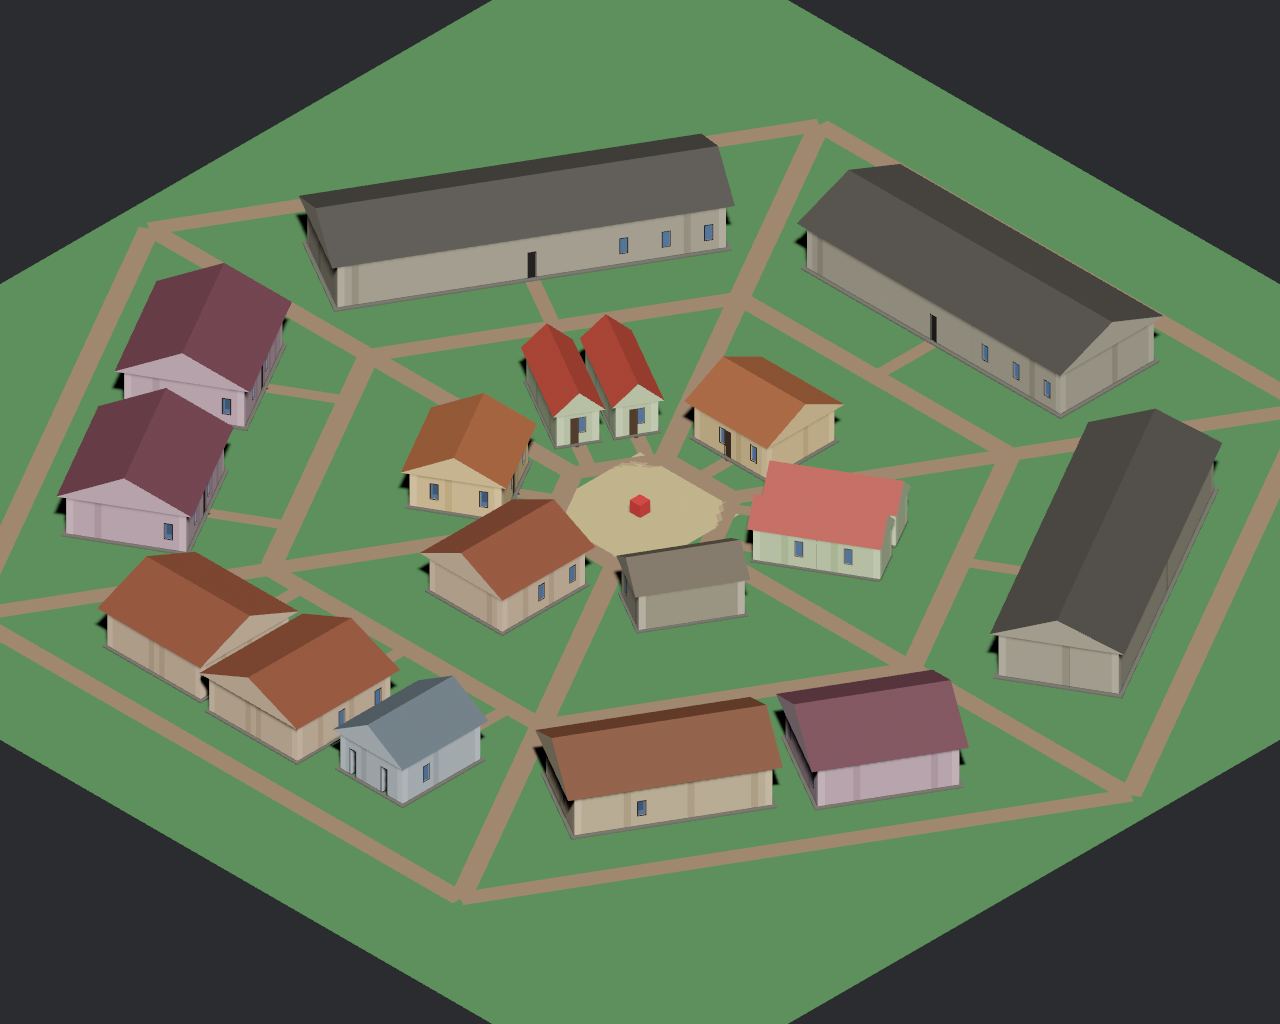
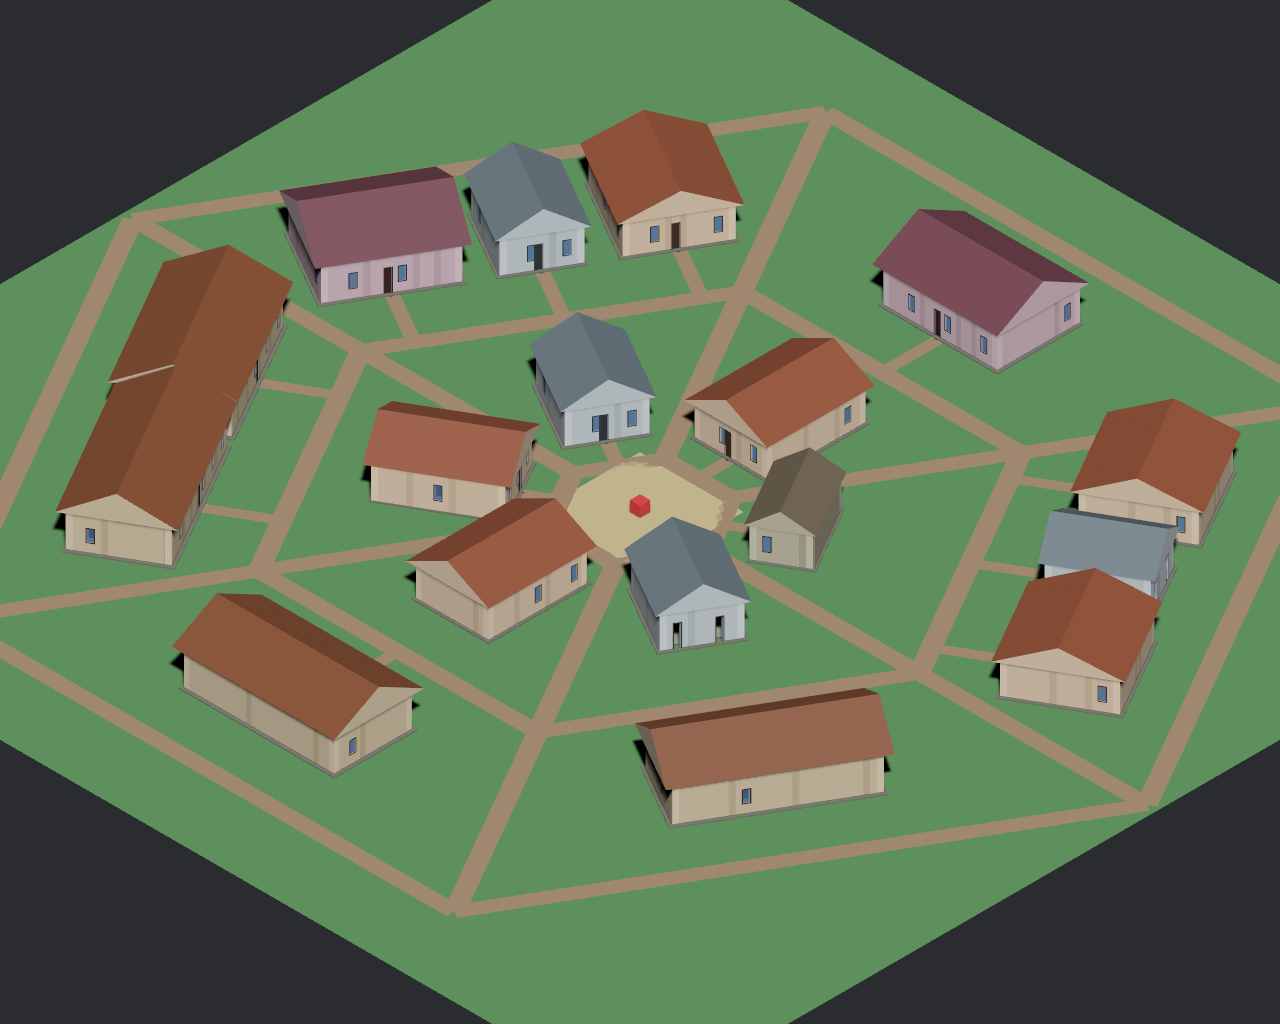
feat: Enhance district configuration and rendering with new visual styles and camera settings

diff --git a/apps/game-headless/src/main.rs b/apps/game-headless/src/main.rs
@@ -16,7 +16,7 @@ use game_core::plugins::building::render::spawn_building_layout;
 use game_core::plugins::scene::camera_config::CameraConfig;
 use game_core::plugins::scene::scene_config::SceneConfig;
 use game_core::plugins::GamePlugin;
-use std::time::{Duration, SystemTime, UNIX_EPOCH};
+use std::time::Duration;
 
 fn main() {
     let args: Vec<String> = std::env::args().collect();
@@ -115,35 +115,17 @@ fn generate_building(
     mut materials: ResMut<Assets<StandardMaterial>>,
     fixture: Res<HeadlessFixture>,
 ) {
-    // District fixtures: normal building preview and lot-placement debug preview.
-    if fixture.0 == "district" || fixture.0 == "district-lots" {
-        commands.insert_resource(CameraConfig {
-            position: Vec3::new(42.0, 42.0, 42.0),
-            target: Vec3::new(0.0, 0.0, 0.0),
-            viewport_height: 70.0,
-        });
+    if is_district_fixture(&fixture.0) {
+        commands.insert_resource(district_camera_for_fixture(&fixture.0));
         commands.insert_resource(SceneConfig {
-            ground_size: 100.0,
+            ground_size: district_ground_size_for_fixture(&fixture.0),
             ..Default::default()
         });
 
-        let seed = fixture_seed();
-        let district_config = TradeDistrictConfig {
-            seed,
-            ring_spacing: random_range(seed, 0, 20.0, 24.0),
-            lot_gap: random_range(seed, 1, 0.4, 0.7),
-            lot_width: 1.0,
-            lot_height: random_range(seed, 2, 0.38, 0.5),
-            lot_depth: random_range(seed, 3, 0.05, 0.15),
-            lot_width_randomness: 0.0,
-            lot_height_randomness: random_range(seed, 4, 0.05, 0.15),
-            lot_depth_randomness: random_range(seed, 5, 0.02, 0.08),
-            building_lot_inset: random_range(seed, 6, 0.05, 0.15),
-            ..Default::default()
-        };
+        let district_config = district_config_for_fixture(&fixture.0);
         let district = generate_district(&district_config);
         let mut entity_count = 0;
-        let show_lots = fixture.0 == "district-lots";
+        let show_lots = is_district_lots_fixture(&fixture.0);
 
         // Town square
         let sq = district_config.town_square_radius;
@@ -371,7 +353,6 @@ fn generate_building(
             Mesh3d(meshes.add(convert_mesh(&bmesh.wall_mesh))),
             MeshMaterial3d(materials.add(StandardMaterial {
                 base_color: Color::srgb(0.8, 0.8, 0.8),
-                cull_mode: None,
                 ..default()
             })),
             Transform::default(),
@@ -383,8 +364,12 @@ fn generate_building(
         commands.spawn((
             Mesh3d(meshes.add(convert_mesh(&bmesh.wall_top_mesh))),
             MeshMaterial3d(materials.add(StandardMaterial {
-                base_color: Color::srgb(0.18, 0.18, 0.18),
-                cull_mode: None,
+                base_color: Color::srgb(
+                    config.visual_style.wall_top_color[0],
+                    config.visual_style.wall_top_color[1],
+                    config.visual_style.wall_top_color[2],
+                ),
+                unlit: true,
                 ..default()
             })),
             Transform::default(),
@@ -397,7 +382,6 @@ fn generate_building(
             Mesh3d(meshes.add(convert_mesh(&bmesh.exterior_wall_mesh))),
             MeshMaterial3d(materials.add(StandardMaterial {
                 base_color: Color::srgb(0.92, 0.88, 0.68),
-                cull_mode: None,
                 ..default()
             })),
             Transform::default(),
@@ -410,7 +394,6 @@ fn generate_building(
             Mesh3d(meshes.add(convert_mesh(&bmesh.exterior_corner_mesh))),
             MeshMaterial3d(materials.add(StandardMaterial {
                 base_color: Color::srgb(0.96, 0.9, 0.62),
-                cull_mode: None,
                 ..default()
             })),
             Transform::default(),
@@ -423,7 +406,6 @@ fn generate_building(
             Mesh3d(meshes.add(convert_mesh(&bmesh.exterior_t_junction_mesh))),
             MeshMaterial3d(materials.add(StandardMaterial {
                 base_color: Color::srgb(0.86, 0.78, 0.48),
-                cull_mode: None,
                 ..default()
             })),
             Transform::default(),
@@ -667,23 +649,112 @@ fn local_to_world(origin: Vec2, rotation: f32, local: Vec2) -> Vec2 {
     )
 }
 
-fn fixture_seed() -> u64 {
-    SystemTime::now()
-        .duration_since(UNIX_EPOCH)
-        .map(|duration| duration.as_nanos() as u64)
-        .unwrap_or(42)
+fn is_district_fixture(fixture: &str) -> bool {
+    matches!(
+        fixture,
+        "district"
+            | "district-lots"
+            | "district-no-roof"
+            | "huge-trade-district"
+            | "huge-trade-district-lots"
+            | "huge-trade-district-no-roof"
+    )
 }
 
-fn random_range(seed: u64, stream: u64, min: f32, max: f32) -> f32 {
-    let mut value = seed ^ stream.wrapping_mul(0x9E37_79B9_7F4A_7C15);
-    value ^= value >> 30;
-    value = value.wrapping_mul(0xBF58_476D_1CE4_E5B9);
-    value ^= value >> 27;
-    value = value.wrapping_mul(0x94D0_49BB_1331_11EB);
-    value ^= value >> 31;
+fn is_district_lots_fixture(fixture: &str) -> bool {
+    matches!(fixture, "district-lots" | "huge-trade-district-lots")
+}
 
-    let unit = ((value >> 40) as f32) / ((1_u64 << 24) as f32);
-    min + (max - min) * unit
+fn district_camera_for_fixture(fixture: &str) -> CameraConfig {
+    if fixture.starts_with("huge-trade-district") {
+        CameraConfig {
+            position: Vec3::new(86.0, 86.0, 86.0),
+            target: Vec3::new(0.0, 0.0, 0.0),
+            viewport_height: 145.0,
+        }
+    } else {
+        CameraConfig {
+            position: Vec3::new(42.0, 42.0, 42.0),
+            target: Vec3::new(0.0, 0.0, 0.0),
+            viewport_height: 70.0,
+        }
+    }
+}
+
+fn district_ground_size_for_fixture(fixture: &str) -> f32 {
+    if fixture.starts_with("huge-trade-district") {
+        210.0
+    } else {
+        100.0
+    }
+}
+
+fn district_config_for_fixture(fixture: &str) -> TradeDistrictConfig {
+    if fixture.starts_with("huge-trade-district") {
+        let mut config = TradeDistrictConfig {
+            seed: 42,
+            ring_count: 4,
+            ring_spacing: 20.0,
+            lot_count: 36,
+            radial_count: 6,
+            lot_width: 1.0,
+            lot_height: 0.42,
+            lot_depth: 0.08,
+            lot_width_randomness: 0.0,
+            lot_height_randomness: 0.14,
+            lot_depth_randomness: 0.05,
+            building_lot_inset: 0.08,
+            max_buildings_per_lot: 3,
+            building_gap: 0.9,
+            preserve_large_lot_area: 300.0,
+            landmark_lot_chance: 0.36,
+            standalone_lot_width_scale: 0.5,
+            standalone_lot_depth_scale: 0.7,
+            building_lot_split_chance: 0.9,
+            one_building_lot_weight: 0.22,
+            two_building_lot_weight: 0.43,
+            three_building_lot_weight: 0.35,
+            building_lot_split_jitter: 0.32,
+            ..Default::default()
+        };
+        if fixture == "huge-trade-district-no-roof" {
+            for desc in &mut config.building_descriptions {
+                desc.render_roof = false;
+            }
+        }
+        config
+    } else {
+        let mut config = TradeDistrictConfig {
+            seed: 42,
+            ring_spacing: 22.0,
+            lot_gap: 0.55,
+            lot_width: 1.0,
+            lot_height: 0.46,
+            lot_depth: 0.08,
+            lot_width_randomness: 0.0,
+            lot_height_randomness: 0.12,
+            lot_depth_randomness: 0.05,
+            building_lot_inset: 0.08,
+            max_buildings_per_lot: 3,
+            building_gap: 0.9,
+            preserve_large_lot_area: 260.0,
+            landmark_lot_chance: 0.42,
+            standalone_lot_width_scale: 0.52,
+            standalone_lot_depth_scale: 0.72,
+            building_lot_split_chance: 0.86,
+            one_building_lot_weight: 0.24,
+            two_building_lot_weight: 0.43,
+            three_building_lot_weight: 0.33,
+            building_lot_split_jitter: 0.32,
+            ..Default::default()
+        };
+        if fixture == "district-no-roof" {
+            for desc in &mut config.building_descriptions {
+                desc.render_roof = false;
+            }
+        }
+        config
+    }
 }
 
 fn spawn_entrance_approach(

diff --git a/crates/building-gen/src/mesh/wall.rs b/crates/building-gen/src/mesh/wall.rs
@@ -454,20 +454,20 @@ fn append_wall_face(
             let n = [0.0, 0.0, 1.0];
             (
                 n,
-                [min_x, max_y, max_z],
                 [max_x, max_y, max_z],
-                [min_x, min_y, max_z],
+                [min_x, max_y, max_z],
                 [max_x, min_y, max_z],
+                [min_x, min_y, max_z],
             )
         }
         WallFaceDir::NegZ => {
             let n = [0.0, 0.0, -1.0];
             (
                 n,
-                [max_x, max_y, min_z],
                 [min_x, max_y, min_z],
-                [max_x, min_y, min_z],
+                [max_x, max_y, min_z],
                 [min_x, min_y, min_z],
+                [max_x, min_y, min_z],
             )
         }
         WallFaceDir::PosY => {
@@ -675,5 +675,61 @@ mod tests {
         let (min, max) = wall_bounds_for_tile(&grid, 0, 0, wall, &config);
         assert_eq!(max[0] - min[0], config.tile_size);
         assert_eq!(max[2] - min[2], config.tile_size);
+    }
+
+    #[test]
+    fn test_wall_triangle_winding_matches_normals() {
+        let config = BuildingConfig {
+            footprint: Rect::new(0.0, 0.0, 3.0, 3.0),
+            tile_size: 1.0,
+            wall_thickness: 0.25,
+            ..Default::default()
+        };
+
+        for shape in [
+            WallShape::Straight(CardinalDir::Left),
+            WallShape::Straight(CardinalDir::Right),
+            WallShape::Straight(CardinalDir::Bottom),
+            WallShape::Straight(CardinalDir::Top),
+        ] {
+            let mut grid = TileGrid::new(3, 3, config.tile_size, Vec2::ZERO);
+            grid.set(1, 1, exterior_wall(shape));
+
+            let meshes = generate_wall_meshes(&grid, &config);
+            for (name, mesh) in [
+                ("wall", &meshes.wall),
+                ("top", &meshes.top),
+                ("exterior", &meshes.exterior),
+                ("corner", &meshes.exterior_corner),
+                ("t_junction", &meshes.exterior_t_junction),
+            ] {
+                assert_mesh_winding_matches_normals(name, mesh);
+            }
+        }
+    }
+
+    fn assert_mesh_winding_matches_normals(name: &str, mesh: &MeshData) {
+        for triangle in mesh.indices.chunks_exact(3) {
+            let a_index = triangle[0] as usize;
+            let b_index = triangle[1] as usize;
+            let c_index = triangle[2] as usize;
+            let a = mesh.vertices[a_index];
+            let b = mesh.vertices[b_index];
+            let c = mesh.vertices[c_index];
+            let normal = mesh.normals[a_index];
+            let edge_ab = super::super::math_util::sub3(b, a);
+            let edge_ac = super::super::math_util::sub3(c, a);
+            let winding_normal = super::super::math_util::normalize3(
+                super::super::math_util::cross3(edge_ab, edge_ac),
+            );
+            let dot = winding_normal[0] * normal[0]
+                + winding_normal[1] * normal[1]
+                + winding_normal[2] * normal[2];
+
+            assert!(
+                dot > 0.99,
+                "{name}: triangle winding opposes normal: dot={dot}, normal={normal:?}, winding_normal={winding_normal:?}"
+            );
+        }
     }
 }

diff --git a/crates/game-core/src/plugins/building/render.rs b/crates/game-core/src/plugins/building/render.rs
@@ -65,7 +65,7 @@ pub fn spawn_building_mesh(
         materials,
         &mut entities,
         &bmesh.wall_top_mesh,
-        wall_top_material(),
+        wall_top_material(config),
         transform,
         name_prefix,
         "Wall Top Faces",
@@ -223,10 +223,10 @@ fn wall_material(config: &BuildingConfig) -> StandardMaterial {
     }
 }
 
-fn wall_top_material() -> StandardMaterial {
+fn wall_top_material(config: &BuildingConfig) -> StandardMaterial {
     StandardMaterial {
-        base_color: Color::srgb(0.18, 0.18, 0.18),
-        cull_mode: None,
+        base_color: color(config.visual_style.wall_top_color),
+        unlit: true,
         ..default()
     }
 }
@@ -234,7 +234,6 @@ fn wall_top_material() -> StandardMaterial {
 fn exterior_wall_material(config: &BuildingConfig) -> StandardMaterial {
     StandardMaterial {
         base_color: color(config.visual_style.exterior_wall_color),
-        cull_mode: None,
         ..default()
     }
 }
@@ -242,7 +241,6 @@ fn exterior_wall_material(config: &BuildingConfig) -> StandardMaterial {
 fn exterior_corner_material(config: &BuildingConfig) -> StandardMaterial {
     StandardMaterial {
         base_color: color(config.visual_style.corner_color),
-        cull_mode: None,
         ..default()
     }
 }
@@ -250,7 +248,6 @@ fn exterior_corner_material(config: &BuildingConfig) -> StandardMaterial {
 fn exterior_t_junction_material(config: &BuildingConfig) -> StandardMaterial {
     StandardMaterial {
         base_color: color(config.visual_style.t_junction_color),
-        cull_mode: None,
         ..default()
     }
 }

diff --git a/crates/building-gen/src/config.rs b/crates/building-gen/src/config.rs
@@ -107,6 +107,7 @@ impl RoomDefaults {
 #[derive(Debug, Clone)]
 pub struct BuildingVisualStyle {
     pub wall_color: [f32; 3],
+    pub wall_top_color: [f32; 3],
     pub exterior_wall_color: [f32; 3],
     pub corner_color: [f32; 3],
     pub t_junction_color: [f32; 3],
@@ -121,6 +122,7 @@ impl Default for BuildingVisualStyle {
     fn default() -> Self {
         Self {
             wall_color: [0.8, 0.8, 0.8],
+            wall_top_color: [0.34, 0.34, 0.34],
             exterior_wall_color: [0.92, 0.88, 0.68],
             corner_color: [0.96, 0.9, 0.62],
             t_junction_color: [0.86, 0.78, 0.48],

diff --git a/crates/building-gen/src/district/config.rs b/crates/building-gen/src/district/config.rs
@@ -431,6 +431,7 @@ pub fn default_building_descriptions() -> Vec<BuildingDescription> {
 fn visual_style(wall: [f32; 3], roof: [f32; 3], trim: [f32; 3]) -> BuildingVisualStyle {
     BuildingVisualStyle {
         wall_color: lighten(wall, 0.06),
+        wall_top_color: darken(lighten(wall, 0.06), 0.34),
         exterior_wall_color: wall,
         corner_color: lighten(wall, 0.08),
         t_junction_color: darken(wall, 0.08),